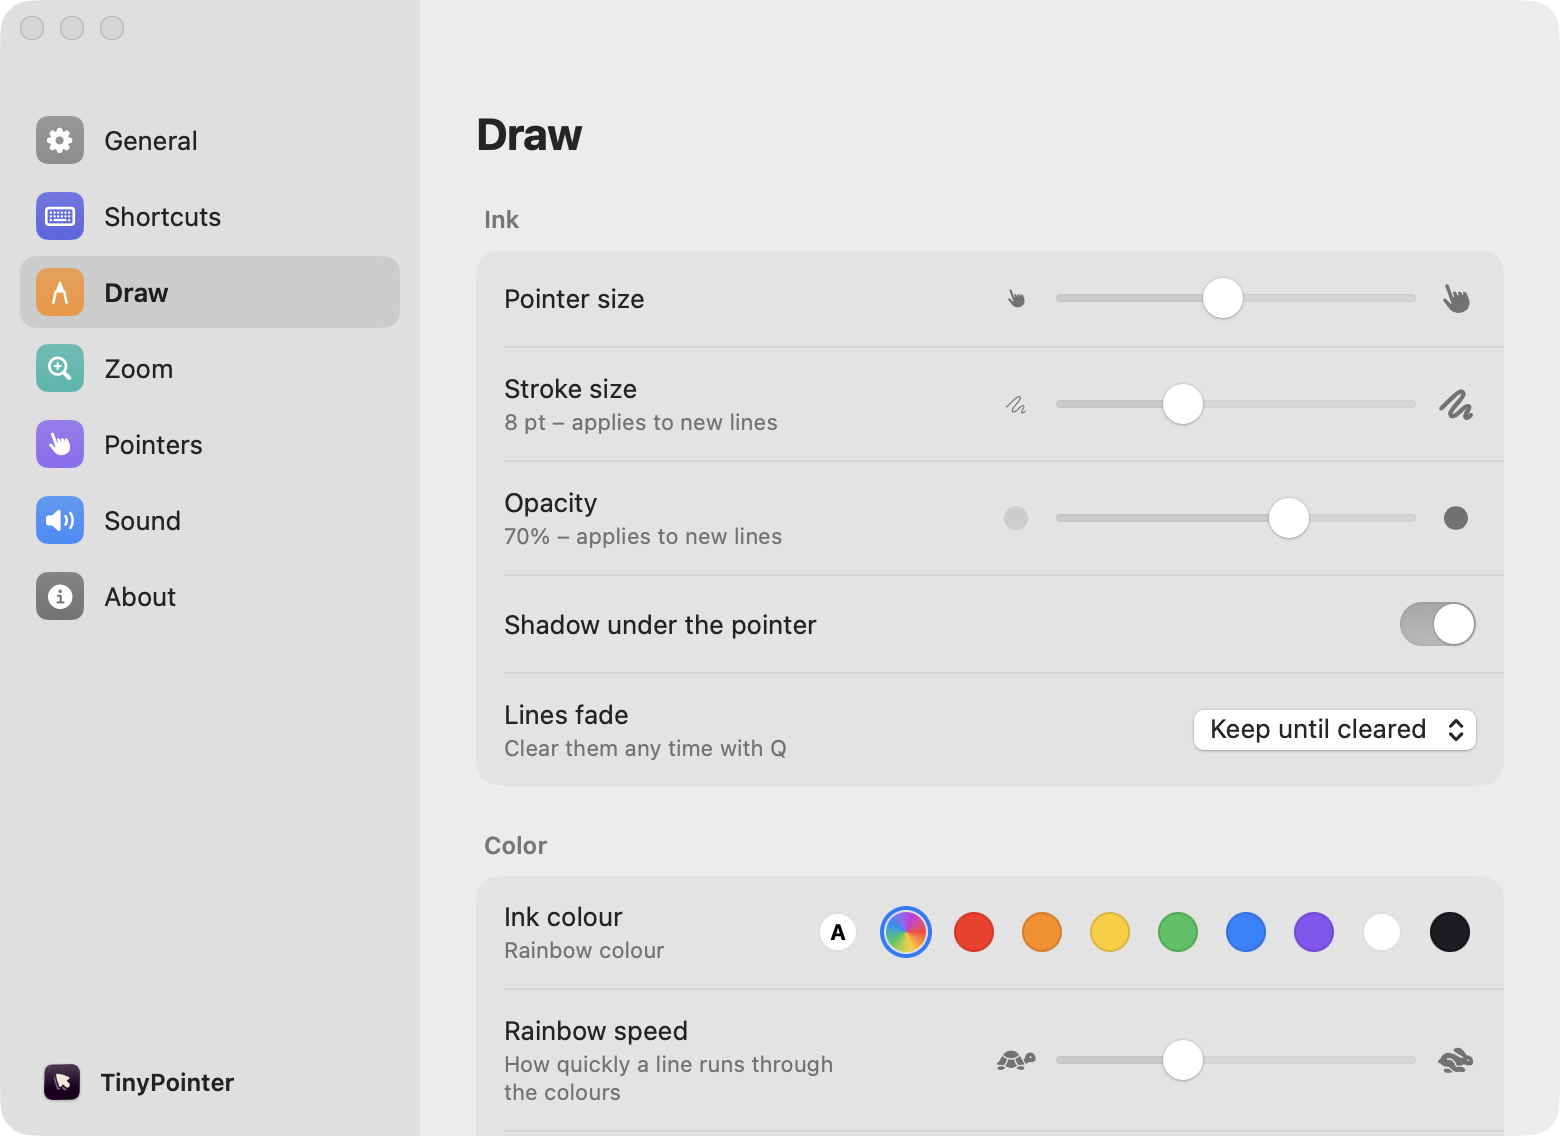
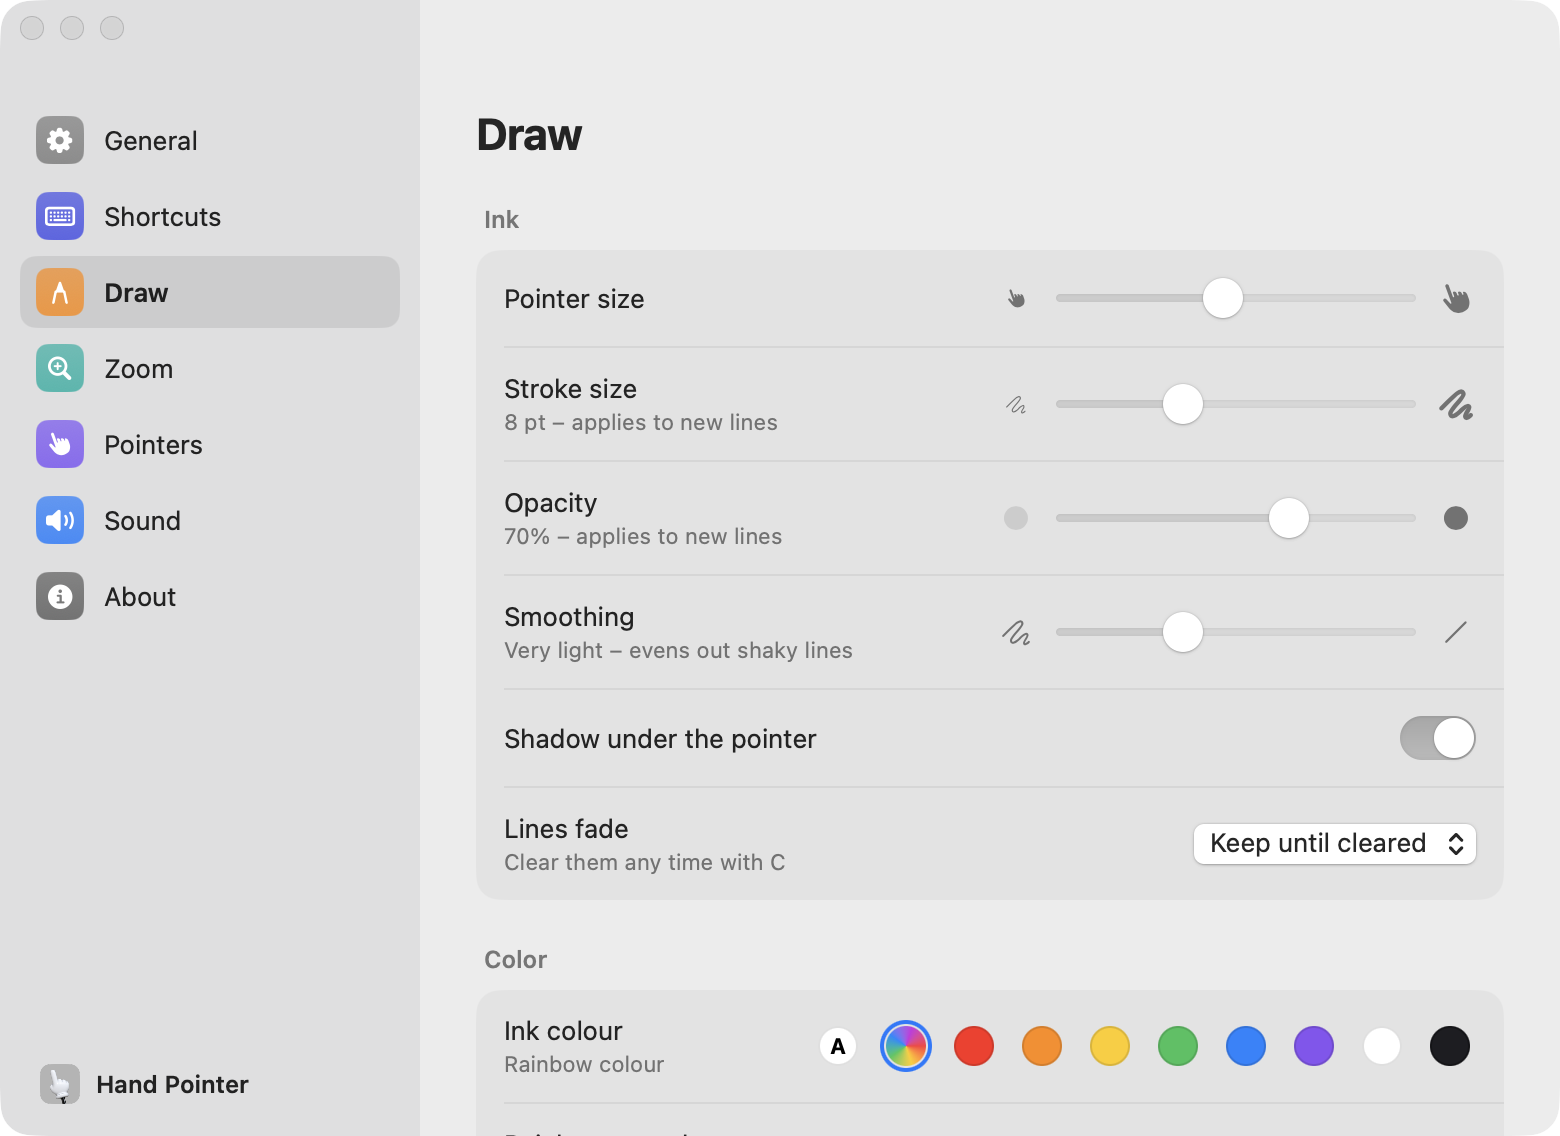
Rename to Hand Pointer
- App, bundle (com.esreverse.handpointer), Swift package and sources are HandPointer
- Everything people read says Hand Pointer; repository is now esreverse/handpointer
- Update feed and download links point to the renamed repository
- README screenshots show the new name

diff --git a/Sources/HandPointer/SettingsView.swift b/Sources/HandPointer/SettingsView.swift
@@ -141,7 +141,7 @@ final class SettingsModel: ObservableObject {
             draftError = problem.message
         } catch {
             draft = nil
-            draftError = "Tiny Pointer couldn't read that file."
+            draftError = "Hand Pointer couldn't read that file."
         }
     }
 
@@ -168,7 +168,7 @@ final class SettingsModel: ObservableObject {
             handIdea = ""
             makingHand = false
         } catch {
-            draftError = "Tiny Pointer couldn't save that hand."
+            draftError = "Hand Pointer couldn't save that hand."
         }
     }
 
@@ -354,7 +354,7 @@ struct SettingsView: View {
                 if let icon = NSImage(named: "settings_icon") ?? NSApp.applicationIconImage {
                     Image(nsImage: icon).resizable().frame(width: 20, height: 20)
                 }
-                Text("Tiny Pointer").font(.system(size: 12, weight: .semibold))
+                Text("Hand Pointer").font(.system(size: 12, weight: .semibold))
                 Spacer()
             }
             .padding(.horizontal, 10)
@@ -426,7 +426,7 @@ private struct GeneralPage: View {
     var body: some View {
         VStack(alignment: .leading, spacing: 22) {
             Card(title: "Startup") {
-                Row("Open Tiny Pointer when you log in") {
+                Row("Open Hand Pointer when you log in") {
                     Toggle("", isOn: model.binding({ Preferences.launchAtLogin }, { Preferences.launchAtLogin = $0 }))
                         .toggleStyle(.switch).labelsHidden().focusable(false)
                 }
@@ -1198,7 +1198,7 @@ private struct DrawingPage: View {
 
     private var toolbarCard: some View {
         Card(title: "Toolbar") {
-            Row("Show toolbar", detail: "The bar at the bottom of the screen while Tiny Pointer is on") {
+            Row("Show toolbar", detail: "The bar at the bottom of the screen while Hand Pointer is on") {
                 Toggle("", isOn: model.binding({ Preferences.showToolbar }, { Preferences.showToolbar = $0 }))
                     .toggleStyle(.switch).labelsHidden().focusable(false)
             }
@@ -1436,7 +1436,7 @@ private struct AboutPage: View {
                     Image(nsImage: icon).resizable().frame(width: 72, height: 72)
                 }
                 VStack(alignment: .leading, spacing: 4) {
-                    Text("Tiny Pointer").font(.system(size: 18, weight: .bold))
+                    Text("Hand Pointer").font(.system(size: 18, weight: .bold))
                     Text("Version \(version)").font(.system(size: 12)).foregroundColor(.secondary)
                     Text("A tiny hand on a stick for your Mac. Free and open source").font(.system(size: 12)).foregroundColor(.secondary)
                 }
@@ -1445,8 +1445,8 @@ private struct AboutPage: View {
             Card(title: nil) {
                 LinkRow(title: "Made by", detail: "Eric Singhartinger", url: "https://github.com/esreverse")
                 LinkRow(title: "Website", detail: "esreverse.com", url: "https://esreverse.com")
-                LinkRow(title: "Source code", detail: "github.com/esreverse/tinypointer", url: "https://github.com/esreverse/tinypointer")
-                LinkRow(title: "License", detail: "MIT", url: "https://github.com/esreverse/tinypointer/blob/main/LICENSE")
+                LinkRow(title: "Source code", detail: "github.com/esreverse/handpointer", url: "https://github.com/esreverse/handpointer")
+                LinkRow(title: "License", detail: "MIT", url: "https://github.com/esreverse/handpointer/blob/main/LICENSE")
                 LinkRow(title: "Based on", detail: "TinyHand by Kamran Ahmed", url: "https://github.com/nilbuild/tinyhand")
             }
             HStack {
@@ -1745,7 +1745,7 @@ private struct MakeHandPage: View {
                     PlainField(placeholder: "My hand", text: Binding(get: { model.handName }, set: { model.handName = String($0.prefix(16)) }))
                         .frame(width: 220)
                 }
-                Text("It should show the back of the hand, like the ones in Tiny Pointer. If you see the palm, try another image")
+                Text("It should show the back of the hand, like the ones in Hand Pointer. If you see the palm, try another image")
                     .font(.system(size: 11))
                     .foregroundColor(.secondary)
                     .fixedSize(horizontal: false, vertical: true)

diff --git a/Sources/HandPointer/HandMaker.swift b/Sources/HandPointer/HandMaker.swift
@@ -2,7 +2,7 @@ import AppKit
 
 enum HandMaker {
     static let prompt = """
-    Make a pointer image for Tiny Pointer, a Mac app that shows a toy hand on screen.
+    Make a pointer image for Hand Pointer, a Mac app that shows a toy hand on screen.
 
     Draw one cartoon right hand in this style: [describe your hand, e.g. knitted wool in mustard yellow]
 
@@ -42,12 +42,12 @@ enum HandMaker {
     static func make(from url: URL) throws -> (image: CGImage, ink: UInt32) {
         guard let source = CGImageSourceCreateWithURL(url as CFURL, nil),
               let image = CGImageSourceCreateImageAtIndex(source, 0, nil) else {
-            throw Problem(message: "That file isn't an image Tiny Pointer can read.")
+            throw Problem(message: "That file isn't an image Hand Pointer can read.")
         }
         let pixels = try read(image)
         try check(pixels)
         guard let composed = compose(image, pixels) else {
-            throw Problem(message: "Tiny Pointer couldn't put that hand on a stick.")
+            throw Problem(message: "Hand Pointer couldn't put that hand on a stick.")
         }
         return (composed, ink(pixels))
     }
@@ -68,7 +68,7 @@ enum HandMaker {
         guard let ctx = CGContext(data: &rgba, width: w, height: h, bitsPerComponent: 8, bytesPerRow: w * 4,
                                   space: CGColorSpace(name: CGColorSpace.sRGB) ?? CGColorSpaceCreateDeviceRGB(),
                                   bitmapInfo: CGImageAlphaInfo.premultipliedLast.rawValue) else {
-            throw Problem(message: "That file isn't an image Tiny Pointer can read.")
+            throw Problem(message: "That file isn't an image Hand Pointer can read.")
         }
         ctx.draw(image, in: CGRect(x: 0, y: 0, width: w, height: h))
         return Pixels(width: w, height: h, rgba: rgba)
@@ -303,7 +303,7 @@ enum HandMaker {
 
     static func write(_ image: CGImage, to url: URL) throws {
         guard let data = NSBitmapImageRep(cgImage: image).representation(using: .png, properties: [:]) else {
-            throw Problem(message: "Tiny Pointer couldn't save the hand.")
+            throw Problem(message: "Hand Pointer couldn't save the hand.")
         }
         try data.write(to: url, options: .atomic)
     }
@@ -316,7 +316,7 @@ struct CustomHand: Codable {
 }
 
 enum CustomHands {
-    static let changed = Notification.Name("TinyPointerCustomHandsChanged")
+    static let changed = Notification.Name("HandPointerCustomHandsChanged")
 
     static var directory: URL {
         if let override = ProcessInfo.processInfo.environment["TH_HANDS_DIR"] {
@@ -324,7 +324,7 @@ enum CustomHands {
         }
         let base = FileManager.default.urls(for: .applicationSupportDirectory, in: .userDomainMask).first
             ?? URL(fileURLWithPath: NSHomeDirectory()).appendingPathComponent("Library/Application Support")
-        return base.appendingPathComponent("TinyPointer/Hands", isDirectory: true)
+        return base.appendingPathComponent("HandPointer/Hands", isDirectory: true)
     }
 
     private static var listURL: URL {
@@ -359,7 +359,7 @@ enum CustomHands {
         list.append(CustomHand(id: id, name: trimmed.isEmpty ? "My hand \(list.count + 1)" : String(trimmed.prefix(16)), ink: ink))
         try save(list)
         guard let style = PointerStyle(rawValue: id) else {
-            throw HandMaker.Problem(message: "Tiny Pointer couldn't add that hand.")
+            throw HandMaker.Problem(message: "Hand Pointer couldn't add that hand.")
         }
         return style
     }

diff --git a/Sources/HandPointer/AppDelegate.swift b/Sources/HandPointer/AppDelegate.swift
@@ -81,7 +81,7 @@ final class AppDelegate: NSObject, NSApplicationDelegate, NSMenuDelegate {
         menu.addItem(.separator())
         menu.addItem(NSMenuItem(title: "Settings…", action: #selector(openSettings), keyEquivalent: ","))
         menu.addItem(.separator())
-        menu.addItem(NSMenuItem(title: "Quit Tiny Pointer", action: #selector(quit), keyEquivalent: "q"))
+        menu.addItem(NSMenuItem(title: "Quit Hand Pointer", action: #selector(quit), keyEquivalent: "q"))
         menu.items.forEach { $0.target = self }
         menu.delegate = self
     }
@@ -345,13 +345,13 @@ final class AppDelegate: NSObject, NSApplicationDelegate, NSMenuDelegate {
         let on = overlay.isActive
         let image = Bundle.main.image(forResource: on ? "menubar_on" : "menubar_off")
             ?? NSImage(systemSymbolName: on ? "hand.point.up.left.fill" : "hand.point.up.left",
-                       accessibilityDescription: "Tiny Pointer")
+                       accessibilityDescription: "Hand Pointer")
         image?.size = NSSize(width: 18, height: 18)
         image?.isTemplate = true
         statusItem.button?.image = image
         statusItem.button?.toolTip = overlay.isActive
-            ? "Tiny Pointer is on — click to turn off, right-click for the menu"
-            : "Tiny Pointer — click to turn on, right-click for the menu"
+            ? "Hand Pointer is on — click to turn off, right-click for the menu"
+            : "Hand Pointer — click to turn on, right-click for the menu"
     }
 
     private func editingMenu() -> NSMenu {
@@ -359,7 +359,7 @@ final class AppDelegate: NSObject, NSApplicationDelegate, NSMenuDelegate {
         let appItem = NSMenuItem()
         let appMenu = NSMenu()
         appMenu.addItem(withTitle: "Close Window", action: #selector(NSWindow.performClose(_:)), keyEquivalent: "w")
-        appMenu.addItem(withTitle: "Quit Tiny Pointer", action: #selector(NSApplication.terminate(_:)), keyEquivalent: "q")
+        appMenu.addItem(withTitle: "Quit Hand Pointer", action: #selector(NSApplication.terminate(_:)), keyEquivalent: "q")
         appItem.submenu = appMenu
         main.addItem(appItem)
         let editItem = NSMenuItem()

diff --git a/Sources/HandPointer/Toolbar.swift b/Sources/HandPointer/Toolbar.swift
@@ -179,7 +179,7 @@ final class Toolbar {
         permissionButton.image = NSImage(systemSymbolName: "exclamationmark.triangle.fill", accessibilityDescription: nil)
         permissionButton.imagePosition = .imageLeading
         permissionButton.contentTintColor = .black
-        permissionButton.toolTip = "Tiny Pointer needs Accessibility permission to intercept clicks and draw"
+        permissionButton.toolTip = "Hand Pointer needs Accessibility permission to intercept clicks and draw"
         permissionButton.heightAnchor.constraint(equalToConstant: 32).isActive = true
         permissionButton.target = self
         permissionButton.action = #selector(fixPermission)
@@ -451,7 +451,7 @@ final class Toolbar {
     private weak var placedScreen: NSScreen?
     private weak var handleView: NSView?
 
-    // Own tooltips: the native ones never show while TinyPointer runs in the background
+    // Own tooltips: the native ones never show while HandPointer runs in the background
     // with the cursor hidden, so the overlay tells the toolbar where the mouse is.
     private var tips: [NSView: String] = [:]
     private var tipPanel: Panel?

diff --git a/Sources/HandPointer/Magnifier.swift b/Sources/HandPointer/Magnifier.swift
@@ -4,7 +4,7 @@ import ScreenCaptureKit
 
 /// A round loupe that follows the pointer and shows the screen magnified while the zoom key is held.
 ///
-/// The screen is captured with ScreenCaptureKit (needs Screen Recording permission). TinyPointer's own
+/// The screen is captured with ScreenCaptureKit (needs Screen Recording permission). HandPointer's own
 /// windows are left out of the capture, so the hand, the ink and the toolbar never show up inside it.
 /// Capture starts when the key is first held and stops a few seconds after the loupe has closed.
 final class Magnifier: NSObject, SCStreamOutput, SCStreamDelegate {
@@ -23,7 +23,7 @@ final class Magnifier: NSObject, SCStreamOutput, SCStreamDelegate {
     private var streamDisplay: CGDirectDisplayID?
     private var hasFrame = false
     private var askedPermission = false
-    private let queue = DispatchQueue(label: "tinypointer.magnifier")
+    private let queue = DispatchQueue(label: "handpointer.magnifier")
 
     private var zoom: CGFloat = 1
     private var target: CGFloat = 1

diff --git a/Sources/HandPointer/Preferences.swift b/Sources/HandPointer/Preferences.swift
@@ -204,7 +204,7 @@ enum InkChoice: String, CaseIterable {
 }
 
 enum Preferences {
-    static let changed = Notification.Name("TinyPointerPreferencesChanged")
+    static let changed = Notification.Name("HandPointerPreferencesChanged")
     private static let defaults = UserDefaults.standard
 
     static var toggleShortcut: Shortcut {
@@ -490,7 +490,7 @@ enum Preferences {
         }
     }
 
-    /// TinyPointer was TinyHand (bundle com.kamranahmed.tinyhand). Copies its settings once,
+    /// HandPointer was TinyHand (bundle com.kamranahmed.tinyhand). Copies its settings once,
     /// leaving out what belongs to that app alone (open-at-login setup, update checks).
     static func migrateFromTinyHand() {
         let flag = "migratedFromTinyHand"

diff --git a/Sources/HandPointer/main.swift b/Sources/HandPointer/main.swift
@@ -14,7 +14,7 @@ if let idx = CommandLine.arguments.firstIndex(of: "--render-test") {
 }
 
 if let idx = CommandLine.arguments.firstIndex(of: "--ax-status") {
-    let out = CommandLine.arguments.count > idx + 1 ? CommandLine.arguments[idx + 1] : "/tmp/tinypointer-ax.txt"
+    let out = CommandLine.arguments.count > idx + 1 ? CommandLine.arguments[idx + 1] : "/tmp/handpointer-ax.txt"
     let mask: CGEventMask = 1 << CGEventType.leftMouseDown.rawValue
     let tap = CGEvent.tapCreate(tap: .cgSessionEventTap, place: .headInsertEventTap, options: .defaultTap,
                                 eventsOfInterest: mask, callback: { _, _, e, _ in Unmanaged.passUnretained(e) }, userInfo: nil)

diff --git a/Package.swift b/Package.swift
@@ -2,16 +2,16 @@
 import PackageDescription
 
 let package = Package(
-    name: "TinyPointer",
+    name: "HandPointer",
     platforms: [.macOS(.v13)],
     dependencies: [
         .package(url: "https://github.com/sparkle-project/Sparkle", exact: "2.10.0"),
     ],
     targets: [
         .executableTarget(
-            name: "TinyPointer",
+            name: "HandPointer",
             dependencies: [.product(name: "Sparkle", package: "Sparkle")],
-            path: "Sources/TinyPointer",
+            path: "Sources/HandPointer",
             linkerSettings: [.unsafeFlags(["-Xlinker", "-rpath", "-Xlinker", "@executable_path/../Frameworks"])]
         )
     ]

diff --git a/Sources/HandPointer/SettingsWindow.swift b/Sources/HandPointer/SettingsWindow.swift
@@ -92,7 +92,7 @@ final class SettingsWindow: NSObject, NSWindowDelegate {
         let w = NSWindow(contentRect: CGRect(x: 0, y: 0, width: 780, height: 560),
                          styleMask: [.titled, .closable, .miniaturizable, .fullSizeContentView],
                          backing: .buffered, defer: false)
-        w.title = "Tiny Pointer Settings"
+        w.title = "Hand Pointer Settings"
         w.titleVisibility = .hidden
         w.titlebarAppearsTransparent = true
         w.isReleasedWhenClosed = false

diff --git a/Sources/HandPointer/OverlayController.swift b/Sources/HandPointer/OverlayController.swift
@@ -400,7 +400,7 @@ final class OverlayController {
         runTimer(every: OverlayController.busyInterval)
 
         activity = ProcessInfo.processInfo.beginActivity(
-            options: [.userInitiated, .latencyCritical], reason: "TinyPointer pointer is on")
+            options: [.userInitiated, .latencyCritical], reason: "HandPointer pointer is on")
         let installed = inputTap.install()
         inputTap.interactKey = Preferences.interactKey.cgFlags
         inputTap.setActive(installed)

diff --git a/Sources/HandPointer/CursorHider.swift b/Sources/HandPointer/CursorHider.swift
@@ -88,7 +88,7 @@ enum DockArea {
     private static var frame: CGRect = .null
     private static var lastRead = Date.distantPast
     private static var reading = false
-    private static let queue = DispatchQueue(label: "TinyPointer.dock-area", qos: .utility)
+    private static let queue = DispatchQueue(label: "HandPointer.dock-area", qos: .utility)
 
     static func contains(_ cgPoint: CGPoint) -> Bool {
         let (known, refresh) = lock.withLock { () -> (CGRect, Bool) in

diff --git a/Sources/HandPointer/Log.swift b/Sources/HandPointer/Log.swift
@@ -2,7 +2,7 @@ import Foundation
 
 enum Log {
     private static let url = FileManager.default.homeDirectoryForCurrentUser
-        .appendingPathComponent("Library/Logs/TinyPointer.log")
+        .appendingPathComponent("Library/Logs/HandPointer.log")
     private static let formatter: DateFormatter = {
         let f = DateFormatter()
         f.dateFormat = "yyyy-MM-dd HH:mm:ss.SSS"
